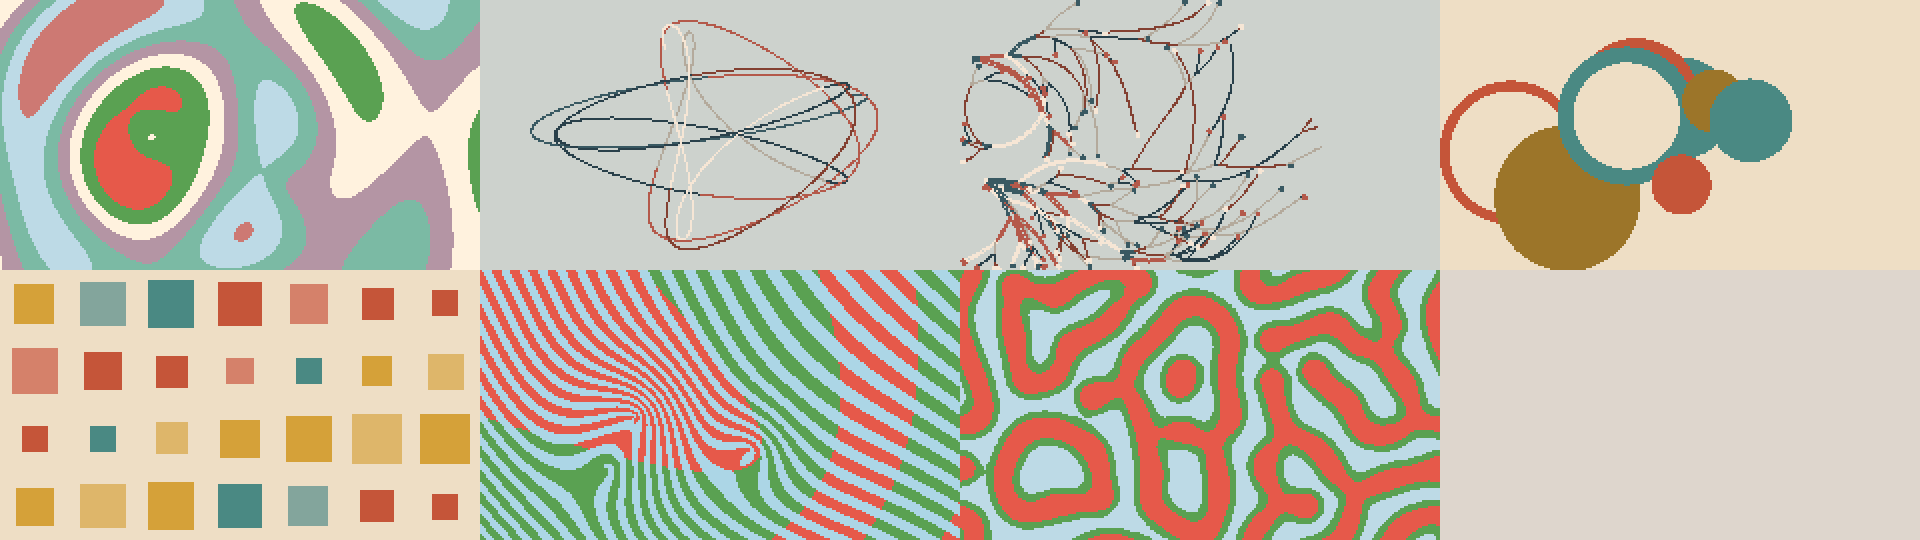
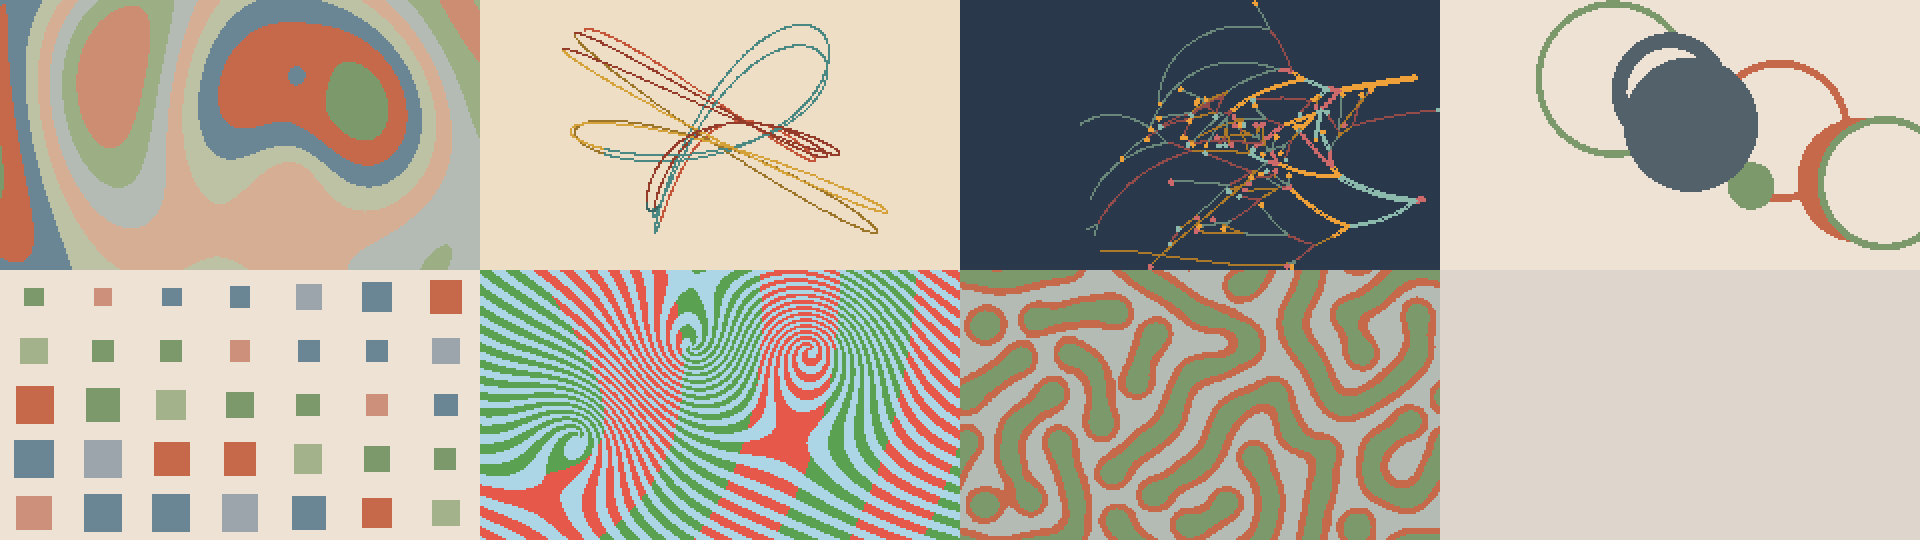
Make the ridge cores three, and stronger
Always three now, one to a third of the frame with jitter: placed at random
they landed on top of each other often enough that two of the three swirls
were lost inside one. Their concentric term and their reach are both pushed
harder, and a charge of up to three whole turns gives the multi-armed ones.

The concentric term eases off over the last few pixels into a core. At full
strength all the way in, the spiral winds tighter than a pixel and the eye
fills with a knot of moire rather than staying open.

diff --git a/src/Light.h b/src/Light.h
@@ -514,21 +514,26 @@ class Painting {
     // A fingerprint is concentric ridges bent around two or three phase
     // singularities: a positive one makes a loop or whorl, a negative one the
     // delta where three ridge families meet.
-    whorlCount = 2 + unsigned(unit() * 2.0f);
+    whorlCount = 3;
     for (unsigned i = 0; i < whorlCount; ++i) {
       Whorl& w = whorls[i];
-      w.x = range(45.0f, 195.0f);
-      w.y = range(28.0f, 107.0f);
+      // One core to a third of the frame, jittered. Placed at random they
+      // land on top of each other often enough that two of the three swirls
+      // are lost inside one.
+      w.x = 40.0f + float(i) * 60.0f + range(-16.0f, 16.0f);
+      w.y = range(26.0f, 109.0f);
       // Whole turns only. atan2 jumps by exactly one turn across its branch
       // cut, and a whole number of turns is invisible to a sine; any other
       // charge leaves a seam running out of the core to the edge of the
       // frame, which is the line that kept showing up across the ridges.
-      w.charge = float(1 + int(unit() * 1.7f)) * (i == 0 ? 1.0f : (unit() < 0.55f ? -1.0f : 1.0f));
+      w.charge = float(1 + int(unit() * 2.4f)) * (i == 0 ? 1.0f : (unit() < 0.55f ? -1.0f : 1.0f));
       // Near a core the ridges are concentric, which is what makes a loop or
       // a whorl; the charge on top of that is what opens it into a spiral or
       // forks it into a delta. Away from the core the linear flow takes over.
-      w.radial = range(0.09f, 0.16f) * (unit() < 0.5f ? -1.0f : 1.0f);
-      w.reach = range(26.0f, 62.0f);
+      // Both are pushed hard here: a weak core is just a kink in the flow,
+      // and the swirl is the thing worth looking at.
+      w.radial = range(0.17f, 0.30f) * (unit() < 0.5f ? -1.0f : 1.0f);
+      w.reach = range(38.0f, 84.0f);
       w.driftX = range(-2.6f, 2.6f);
       w.driftY = range(-1.6f, 1.6f);
       w.phase = unit();
@@ -573,7 +578,11 @@ class Painting {
           float weight = reach2[i] / (reach2[i] + d2);
           float d = std::sqrt(d2);
           if (i == 0) warp = d;
-          phi += weight * radial[i] * d + charge[i] * fatan2(dy, dx);
+          // The concentric term is eased off over the last few pixels into
+          // the core. At full strength all the way in, the spiral winds
+          // tighter than a pixel and the eye fills with a knot of moire
+          // instead of staying open.
+          phi += weight * radial[i] * (d2 / (d + 5.0f)) + charge[i] * fatan2(dy, dx);
         }
         float band_ = fsin(phi);
         if (band_ < -0.12f + breath * 0.22f) { frame[y * width + x] = valley; continue; }

diff --git a/README.md b/README.md
@@ -45,7 +45,7 @@ Shake to change the visual; tap the front button to generate new music and a new
 - **Growth** — branches cross the page from one side, splitting as they go and stopping where they meet ground already taken.
 - **Eclipse** — flat discs and punched rings drift past each other, and the composition is whatever their overlaps happen to make.
 - **Tiles** — a grid of flat squares holding the last five seconds of the music, a column every quarter second, travelling across the grid.
-- **Ridges** — ridges bent around two or three phase singularities, the way a fingerprint is: concentric near a core, flowing in the field between them.
+- **Ridges** — ridges bent around three cores, the way a fingerprint is: concentric and swirling close in, flowing in the field between them.
 - **Reef** — a Gray-Scott reaction, the chemistry behind both brain coral and fingerprints, run at half resolution and read at full so its edges stay organic.
 
 Everything is opaque shapes with hard edges: filled spans, discs, rings punched back to the ground, single-pixel lines. There is no additive blending, dithering or soft falloff anywhere in the renderer. The palettes are daylight ones, a coloured ground with three inks that sit on it, in the register of a faded photograph rather than of emitted light.
